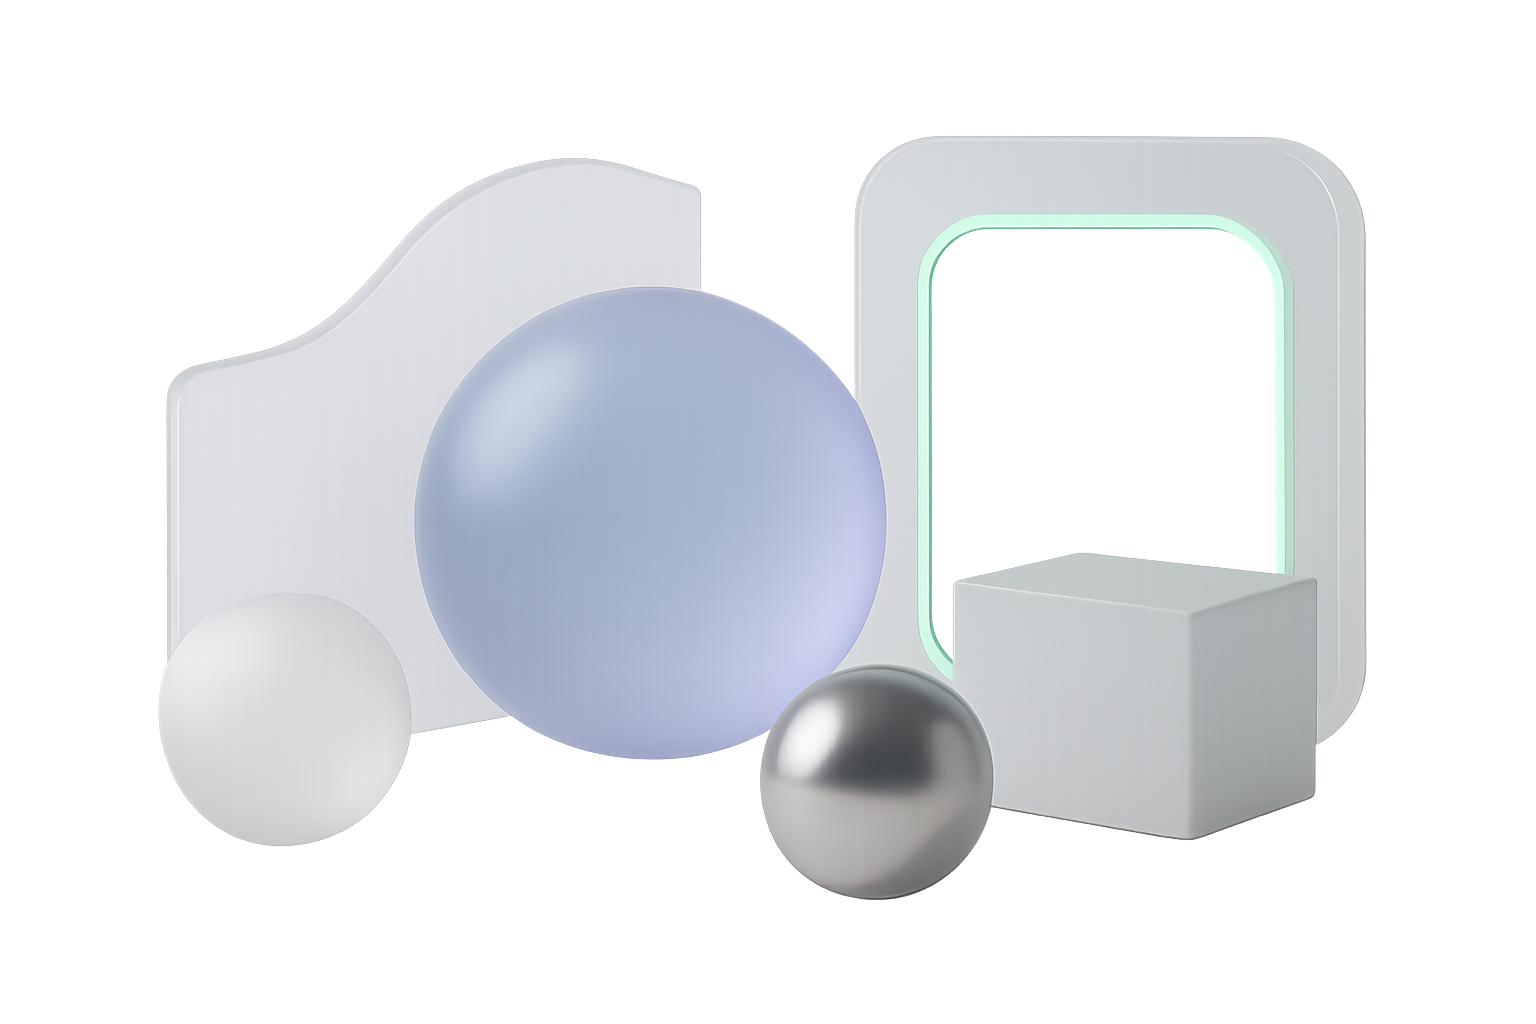
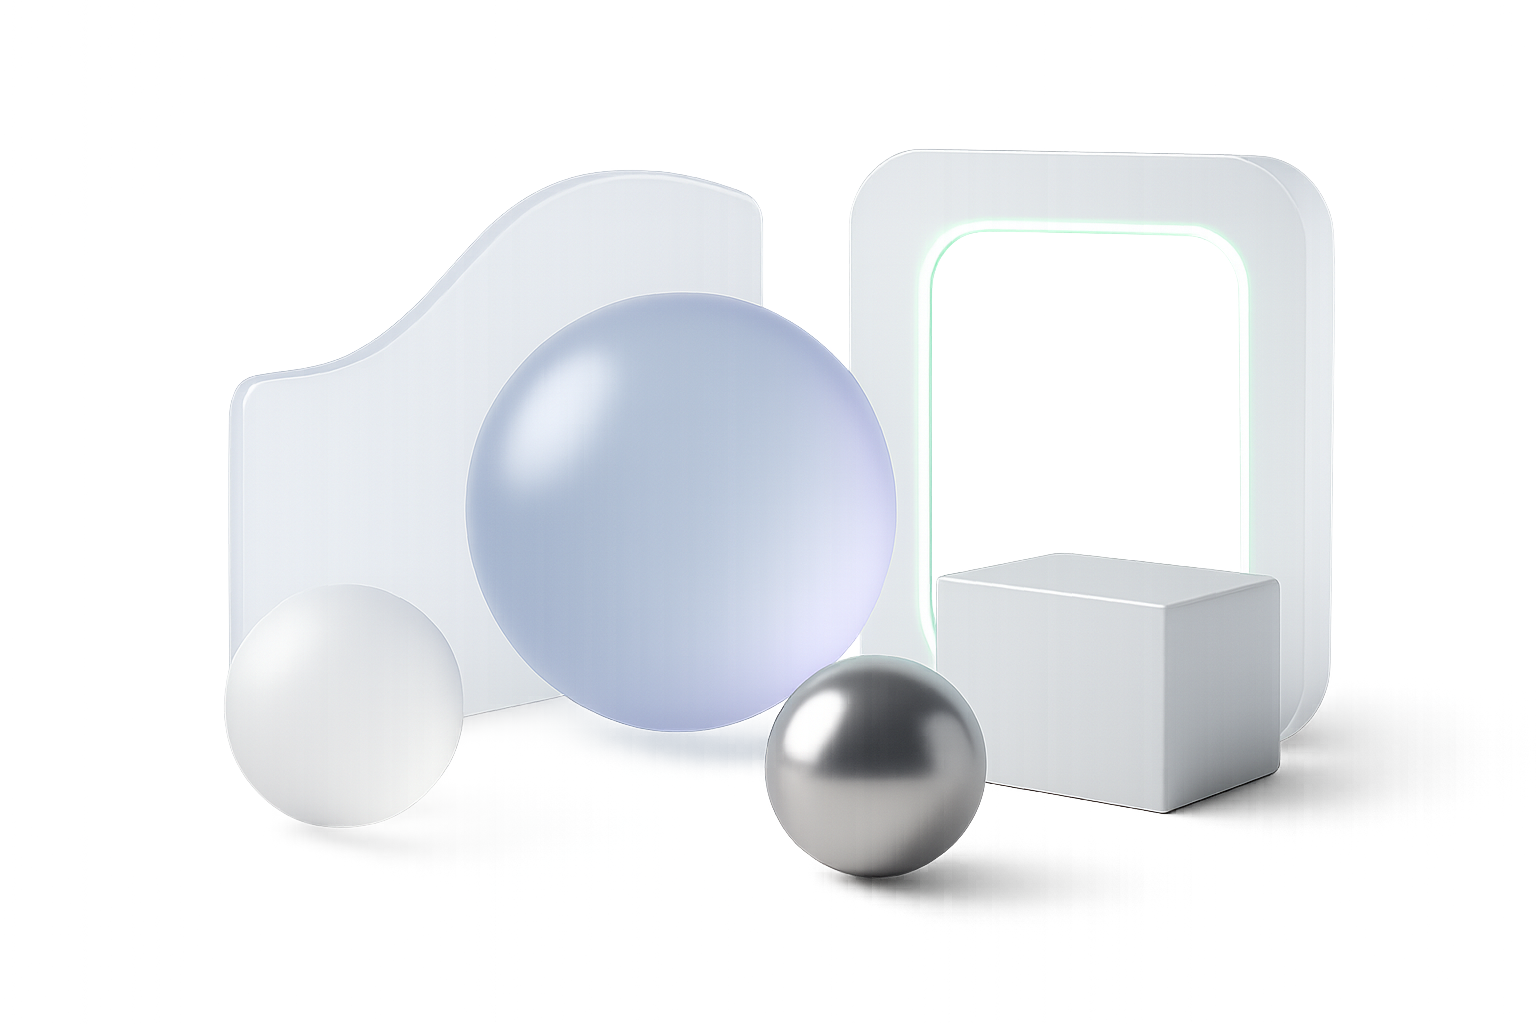
background

Changed region(s): [[0.0938, 0.125, 0.9062, 0.9062], [0.5, 0.3125, 0.5625, 0.4062]]

diff --git a/css/section-hero.css b/css/section-hero.css
@@ -1,10 +1,21 @@
 .hero {
   text-align: center;
-  background: url("../img/hero2.png") no-repeat center/cover;
+  background: url("../img/hero3.png") no-repeat center/contain;
   position: relative;
   padding: 100px 20px;
   height: 100vh;
 }
+.hero::before {
+  content: "";
+  position: absolute;
+  top: 0;
+  left: 0;
+  width: 100%;
+  height: 100%;
+  z-index: -1;
+  background: linear-gradient(180deg, #e6e5e9 , var(--bg));;
+}
+
 .hero-inner {
   display: flex;
   align-items: center;

diff --git a/css/footer.css b/css/footer.css
@@ -1,13 +1,14 @@
 footer {
   text-align: center;
   padding: 30px 20px 20px;
-  color: #fff;
-  background: linear-gradient(180deg, var(--bg), var(--secondary));
+  color: var(--text-ink);
+  background: linear-gradient(180deg, var(--bg), #e6e5e9 );
 }
 
 
 footer .socials a {
-  color: #fff;
+  color: var(--text-ink);
+  text-decoration: none;
   margin: 0 10px;
   font-size: 1.2rem;
 }

diff --git a/css/section-works.css b/css/section-works.css
@@ -1,7 +1,7 @@
 .works {
   padding: 60px 20px;
   text-align: center;
-  background: linear-gradient(180deg, #e6e5e9 , var(--bg));
+  /* background: linear-gradient(180deg, #e6e5e9 , var(--bg)); */
 }
 .works-header {
   display: flex;

diff --git a/css/section-about.css b/css/section-about.css
@@ -112,9 +112,6 @@ margin: 0 auto;
   width: 60px;
 }
 
-.reviews {
-}
-
 .review {
   display: flex;
   flex-direction: column;
